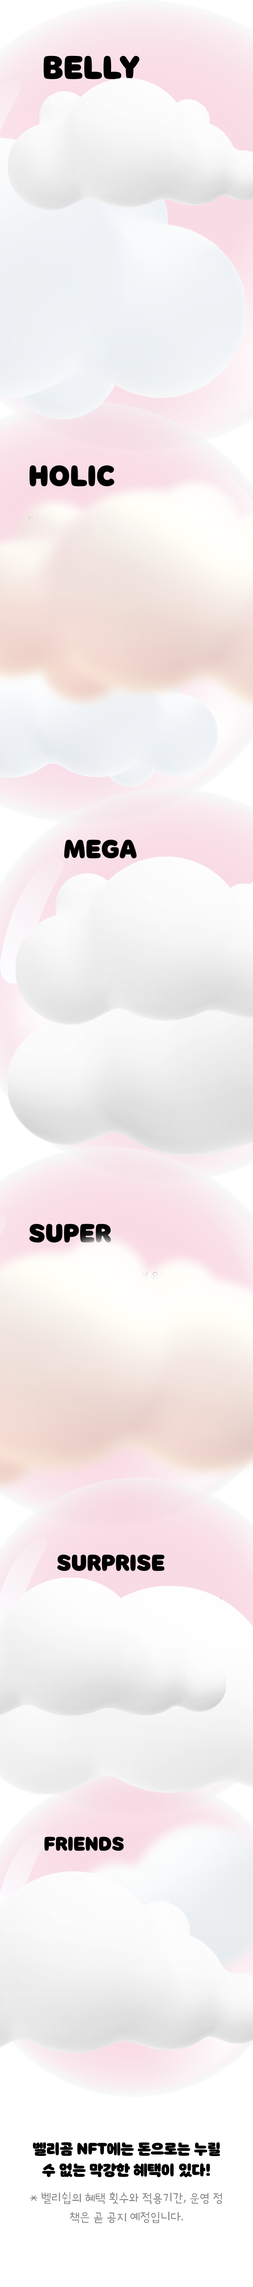
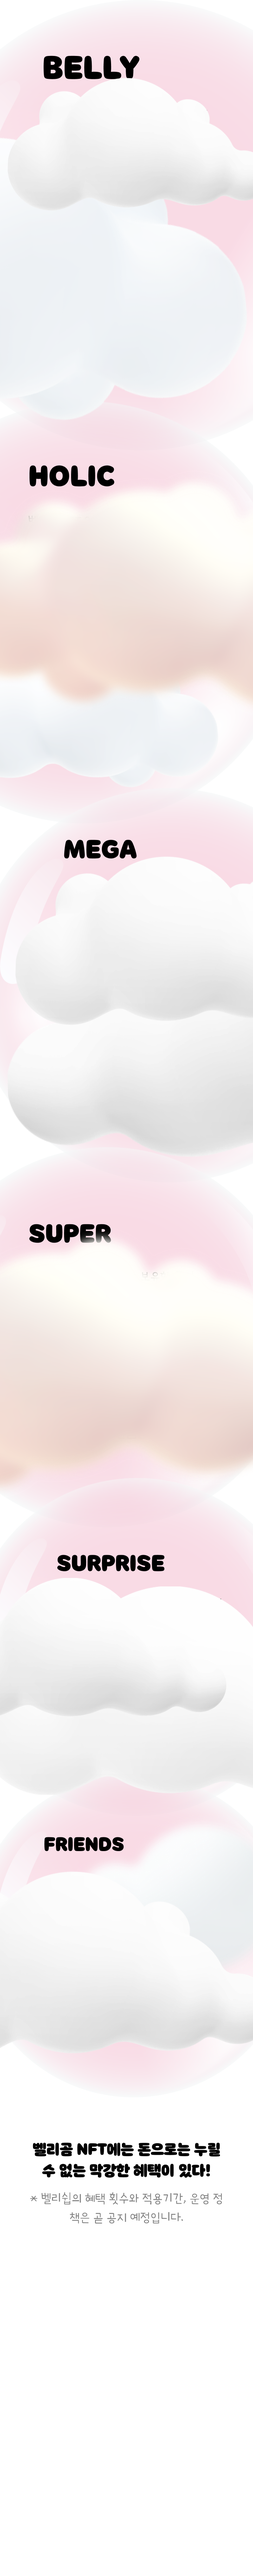
슬라이드 초 수정

diff --git a/assets/scss/common_m.scss b/assets/scss/common_m.scss
@@ -578,14 +578,11 @@ body {
       padding-top: 250px;
     }
     .b_mid {
-      margin-top: 200px;
-      margin-bottom: 340px;
     }
   }
 
   .nft-wrap {
     position: relative;
-    padding-top: 270px;
     .nft-slider {
       .swiper-container {
         .swiper-slide {
@@ -662,7 +659,7 @@ body {
     background: #4944e4;
     transform: rotate(8deg);
     position: absolute;
-    top: 415px;
+    top: 125px;
     left: -50px;
     width: 130%;
     .loop-holder__text {
